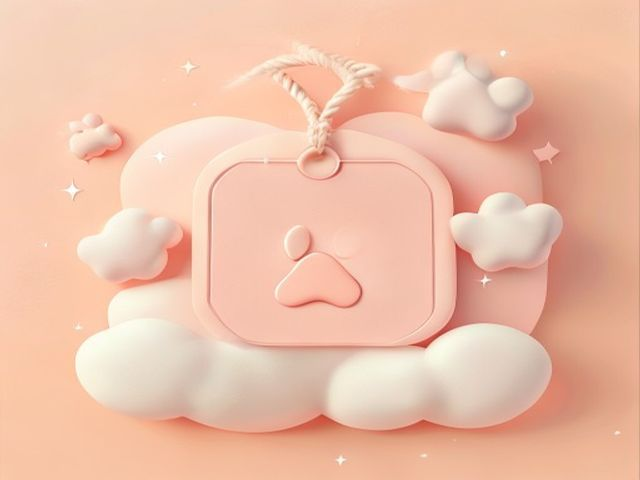
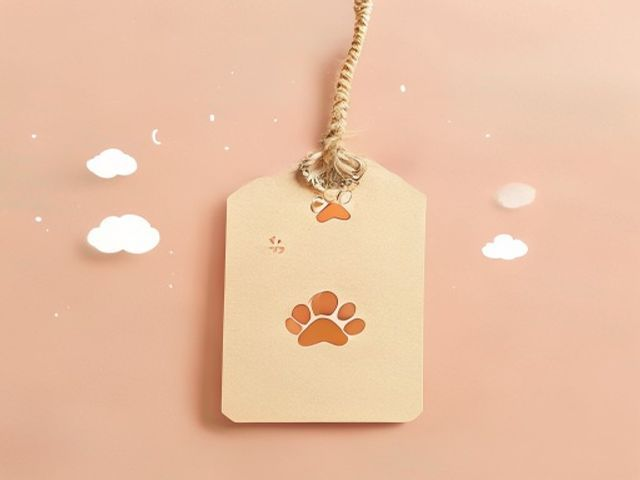
feat: portar la demo completa + cards en estilo fotografico natural
- Cards regeneradas en estilo foto real de estudio (feedback: las 3D se
  veian muy tiernas/artificiales; ahora perros y objetos reales sobre
  fondos pastel, como las cards de Servicios)
- BotonWhatsApp: boton flotante fijo para agendar (usa BOOKING_URL)
- LoaderHuellita: pantalla de carga con huellita que rebota
- HeroParallax: las capas del hero se mueven suave con el mouse
- HuellitasScroll ahora con huella SVG nitida (PawIcon) en colores de la
  paleta, mas visible, como en la demo original

diff --git a/components/HuellitasScroll.tsx b/components/HuellitasScroll.tsx
@@ -1,13 +1,14 @@
 "use client";
 
 import { useEffect, useRef } from "react";
+import { PawIcon } from "./PawIcon";
 
 const PUNTOS = [
-  { left: "5vw", top: "24vh", rot: "-14deg" },
-  { left: "90vw", top: "38vh", rot: "10deg" },
-  { left: "7vw", top: "56vh", rot: "8deg" },
-  { left: "88vw", top: "72vh", rot: "-8deg" },
-  { left: "9vw", top: "86vh", rot: "12deg" },
+  { left: "5vw", top: "24vh", rot: "-18deg", color: "fill-teal-dark/50" },
+  { left: "90vw", top: "38vh", rot: "12deg", color: "fill-orange/60" },
+  { left: "7vw", top: "56vh", rot: "8deg", color: "fill-[#7dc3e8]/60" },
+  { left: "88vw", top: "72vh", rot: "-10deg", color: "fill-teal-dark/50" },
+  { left: "9vw", top: "86vh", rot: "14deg", color: "fill-orange/60" },
 ];
 
 /** Huellitas fijas que van apareciendo a medida que se scrollea la página. */
@@ -23,10 +24,10 @@ export function HuellitasScroll() {
       const progreso = window.scrollY / max;
       huellas.forEach((h, i) => {
         const visible = progreso > (i + 1) / (huellas.length + 1) - 0.12;
-        h.style.opacity = visible ? "0.45" : "0";
+        h.style.opacity = visible ? "1" : "0";
         h.style.transform = visible
           ? `scale(1) rotate(${h.dataset.rot})`
-          : `scale(0.4) rotate(-20deg)`;
+          : `scale(0.4) rotate(-25deg)`;
       });
     };
     window.addEventListener("scroll", onScroll, { passive: true });
@@ -37,13 +38,10 @@ export function HuellitasScroll() {
   return (
     <div ref={ref} aria-hidden="true" className="pointer-events-none">
       {PUNTOS.map((p, i) => (
-        // eslint-disable-next-line @next/next/no-img-element
-        <img
+        <div
           key={i}
-          src="/decor/huella.png"
-          alt=""
           data-rot={p.rot}
-          className="fixed z-[5] h-8 w-auto opacity-0"
+          className="fixed z-[5] opacity-0"
           style={{
             left: p.left,
             top: p.top,
@@ -51,7 +49,9 @@ export function HuellitasScroll() {
               "opacity .8s ease, transform .8s cubic-bezier(.34,1.56,.64,1)",
             transitionDelay: `${(i % 3) * 120}ms`,
           }}
-        />
+        >
+          <PawIcon className={`h-9 w-9 ${p.color}`} />
+        </div>
       ))}
     </div>
   );

diff --git a/components/BotonWhatsApp.tsx b/components/BotonWhatsApp.tsx
@@ -1,0 +1,23 @@
+import { BOOKING_URL } from "@/lib/site";
+
+/** Botón flotante de WhatsApp, siempre visible para agendar. */
+export function BotonWhatsApp() {
+  return (
+    <a
+      href={BOOKING_URL}
+      target="_blank"
+      rel="noopener noreferrer"
+      aria-label="Agendar por WhatsApp"
+      className="group fixed bottom-5 right-5 z-40 flex items-center gap-2.5 rounded-full bg-[#25D366] py-3.5 pl-4 pr-5 font-display text-[15px] font-extrabold text-white shadow-[0_8px_24px_rgba(6,58,64,.28)] transition-[transform,box-shadow] duration-200 hover:-translate-y-1 hover:shadow-[0_14px_34px_rgba(6,58,64,.36)]"
+    >
+      <span
+        aria-hidden="true"
+        className="absolute inset-0 animate-ping rounded-full border-2 border-[#25D366] opacity-60 [animation-duration:2.2s]"
+      />
+      <svg viewBox="0 0 32 32" fill="currentColor" aria-hidden="true" className="h-6 w-6 flex-none">
+        <path d="M16 3C9.4 3 4 8.3 4 14.9c0 2.6.9 5 2.3 7L4 29l7.3-2.3c1.9 1 4 1.6 6.2 1.6 6.6 0 12-5.3 12-11.9C29.5 8.3 22.6 3 16 3zm6.6 16.9c-.3.8-1.6 1.5-2.3 1.6-.6.1-1.3.2-3.8-.8-3.2-1.3-5.2-4.5-5.4-4.7-.2-.2-1.3-1.7-1.3-3.2s.8-2.3 1.1-2.6c.3-.3.6-.4.8-.4h.6c.2 0 .5-.1.7.5l1 2.5c.1.2.1.4 0 .6-.1.2-.2.4-.4.6l-.6.7c-.2.2-.4.4-.2.8.2.4 1 1.7 2.2 2.7 1.5 1.3 2.8 1.7 3.2 1.9.4.2.6.2.8-.1.2-.3 1-1.1 1.2-1.5.3-.4.5-.3.9-.2l2.4 1.1c.4.2.6.3.7.4.1.2.1.8-.2 1.6z" />
+      </svg>
+      <span className="hidden sm:inline">Agenda tu cita</span>
+    </a>
+  );
+}

diff --git a/components/LoaderHuellita.tsx b/components/LoaderHuellita.tsx
@@ -1,0 +1,44 @@
+"use client";
+
+import { useEffect, useState } from "react";
+import { PawIcon } from "./PawIcon";
+
+/** Pantalla de carga con huellita rebotando; se desvanece al cargar la página. */
+export function LoaderHuellita() {
+  const [fuera, setFuera] = useState(false);
+  const [quitado, setQuitado] = useState(false);
+
+  useEffect(() => {
+    const salir = () => {
+      setTimeout(() => setFuera(true), 400);
+      setTimeout(() => setQuitado(true), 1200);
+    };
+    if (document.readyState === "complete") salir();
+    else {
+      window.addEventListener("load", salir);
+      const respaldo = setTimeout(salir, 3500);
+      return () => {
+        window.removeEventListener("load", salir);
+        clearTimeout(respaldo);
+      };
+    }
+  }, []);
+
+  if (quitado) return null;
+
+  return (
+    <div
+      aria-hidden="true"
+      className={`fixed inset-0 z-[100] flex flex-col items-center justify-center gap-3 bg-[#b6dfea] transition-opacity duration-700 ${
+        fuera ? "pointer-events-none opacity-0" : "opacity-100"
+      }`}
+    >
+      <div className="animate-bounce">
+        <PawIcon className="h-14 w-14 fill-teal-ink" />
+      </div>
+      <span className="font-display text-xs font-extrabold uppercase tracking-[0.22em] text-teal-ink">
+        Perrustingo
+      </span>
+    </div>
+  );
+}

diff --git a/components/HeroParallax.tsx b/components/HeroParallax.tsx
@@ -1,0 +1,36 @@
+"use client";
+
+import { useEffect } from "react";
+
+/** Parallax del hero: las capas (foto, nubes, estrellas) se mueven suave con el mouse. */
+export function HeroParallax() {
+  useEffect(() => {
+    const hero = document.getElementById("inicio");
+    if (!hero) return;
+    const capas: { el: HTMLElement; fx: number; fy: number }[] = [];
+    hero.querySelectorAll<HTMLElement>("img").forEach((el) => {
+      capas.push({ el, fx: 14, fy: 10 });
+    });
+    hero
+      .querySelectorAll<HTMLElement>(".pointer-events-none.absolute")
+      .forEach((el) => {
+        capas.push({ el, fx: -10, fy: -7 });
+      });
+    capas.forEach(({ el }) => {
+      el.style.transition = "transform .35s ease-out";
+      el.style.willChange = "transform";
+    });
+    const onMove = (ev: MouseEvent) => {
+      if (window.scrollY > window.innerHeight) return;
+      const x = ev.clientX / window.innerWidth - 0.5;
+      const y = ev.clientY / window.innerHeight - 0.5;
+      capas.forEach(({ el, fx, fy }) => {
+        el.style.transform = `translate(${x * fx}px, ${y * fy}px)`;
+      });
+    };
+    window.addEventListener("mousemove", onMove, { passive: true });
+    return () => window.removeEventListener("mousemove", onMove);
+  }, []);
+
+  return null;
+}

diff --git a/app/page.tsx b/app/page.tsx
@@ -3,9 +3,12 @@ import { Advertencias } from "@/components/Advertencias";
 import { Banner } from "@/components/Banner";
 import { Beneficios } from "@/components/Beneficios";
 import { ComoTrabajamos } from "@/components/ComoTrabajamos";
+import { BotonWhatsApp } from "@/components/BotonWhatsApp";
 import { Footer } from "@/components/Footer";
 import { Hero } from "@/components/Hero";
+import { HeroParallax } from "@/components/HeroParallax";
 import { HuellitasScroll } from "@/components/HuellitasScroll";
+import { LoaderHuellita } from "@/components/LoaderHuellita";
 import { TiltCards } from "@/components/TiltCards";
 import { InfoInteres } from "@/components/InfoInteres";
 import { Precios } from "@/components/Precios";
@@ -24,8 +27,11 @@ export default function Home() {
     <>
       <SiteMenu />
       <QuickAccess />
+      <LoaderHuellita />
       <HuellitasScroll />
       <TiltCards />
+      <HeroParallax />
+      <BotonWhatsApp />
       <main className="flex-1">
         <Hero />
         <Servicios />

diff --git a/components/PawIcon.tsx b/components/PawIcon.tsx
@@ -1,0 +1,12 @@
+/** Huella de perro en SVG nítido (misma silueta clásica, sin emoji). */
+export function PawIcon({ className }: { className?: string }) {
+  return (
+    <svg viewBox="0 0 64 64" aria-hidden="true" className={className}>
+      <ellipse cx="19" cy="19" rx="7" ry="9" />
+      <ellipse cx="45" cy="19" rx="7" ry="9" />
+      <ellipse cx="8" cy="34" rx="6" ry="8" />
+      <ellipse cx="56" cy="34" rx="6" ry="8" />
+      <path d="M32 30c-9 0-17 8-18 16-.7 5.5 3 9 8 9 4 0 6-2 10-2s6 2 10 2c5 0 8.7-3.5 8-9-1-8-9-16-18-16Z" />
+    </svg>
+  );
+}
